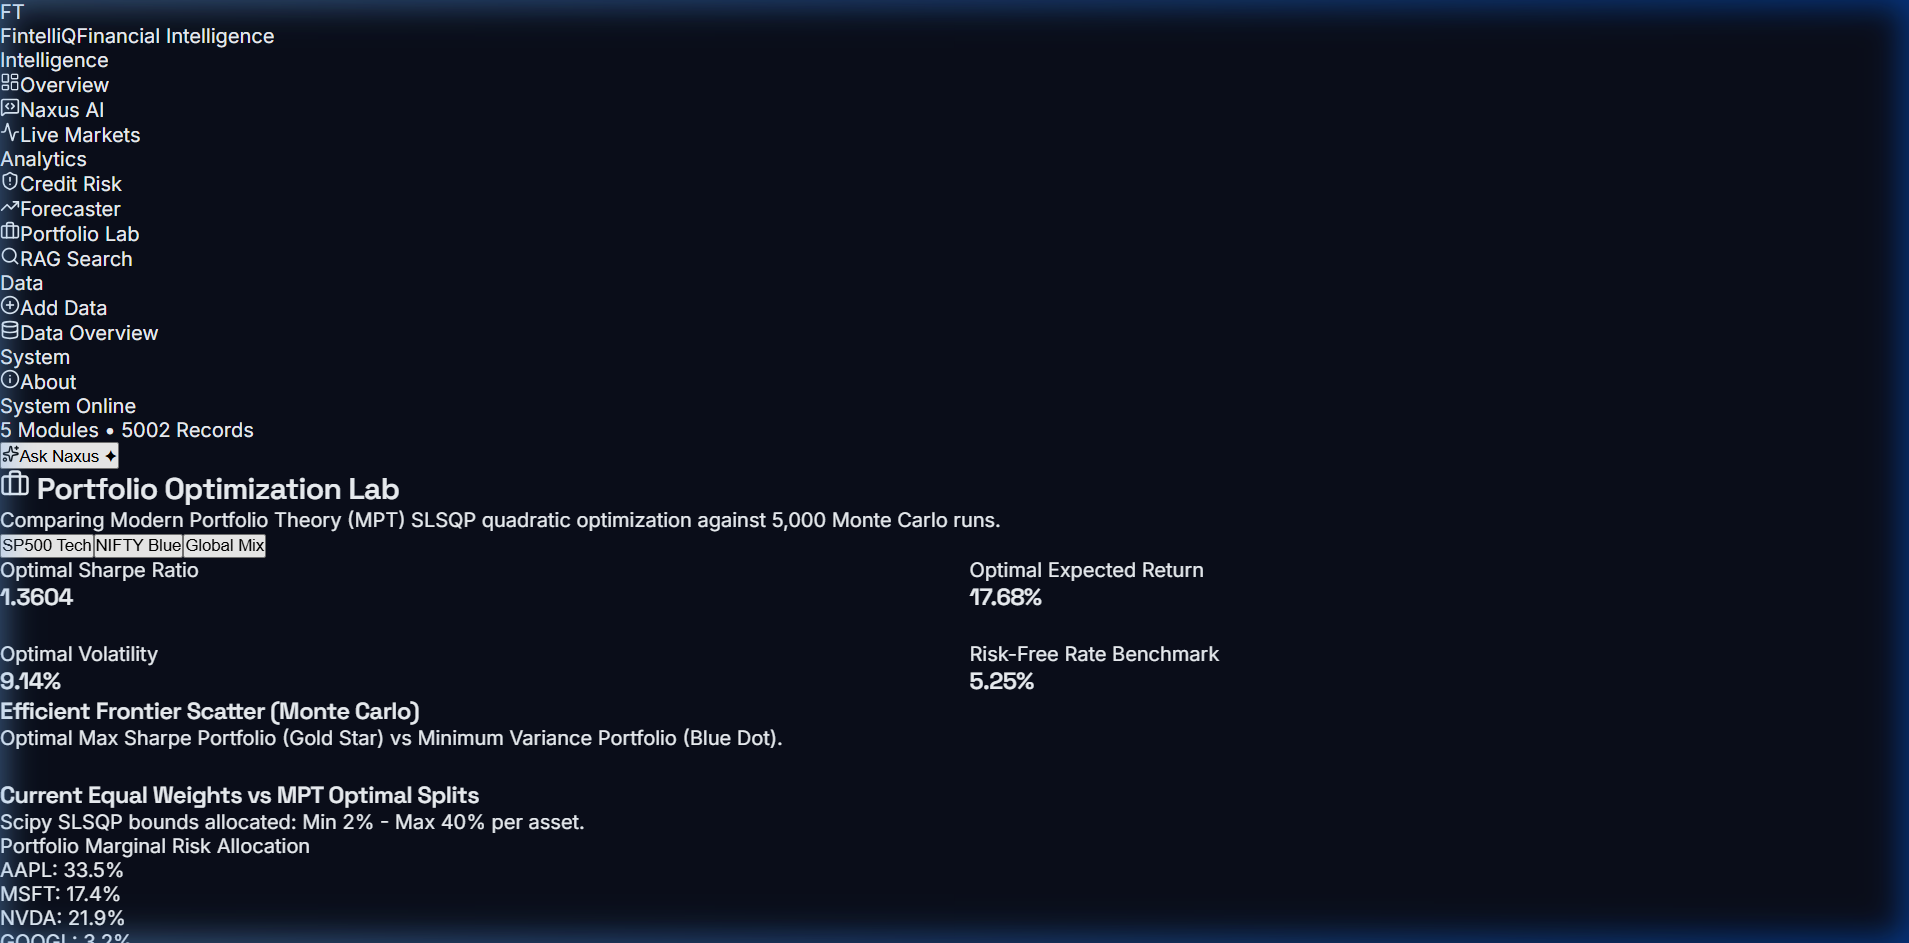
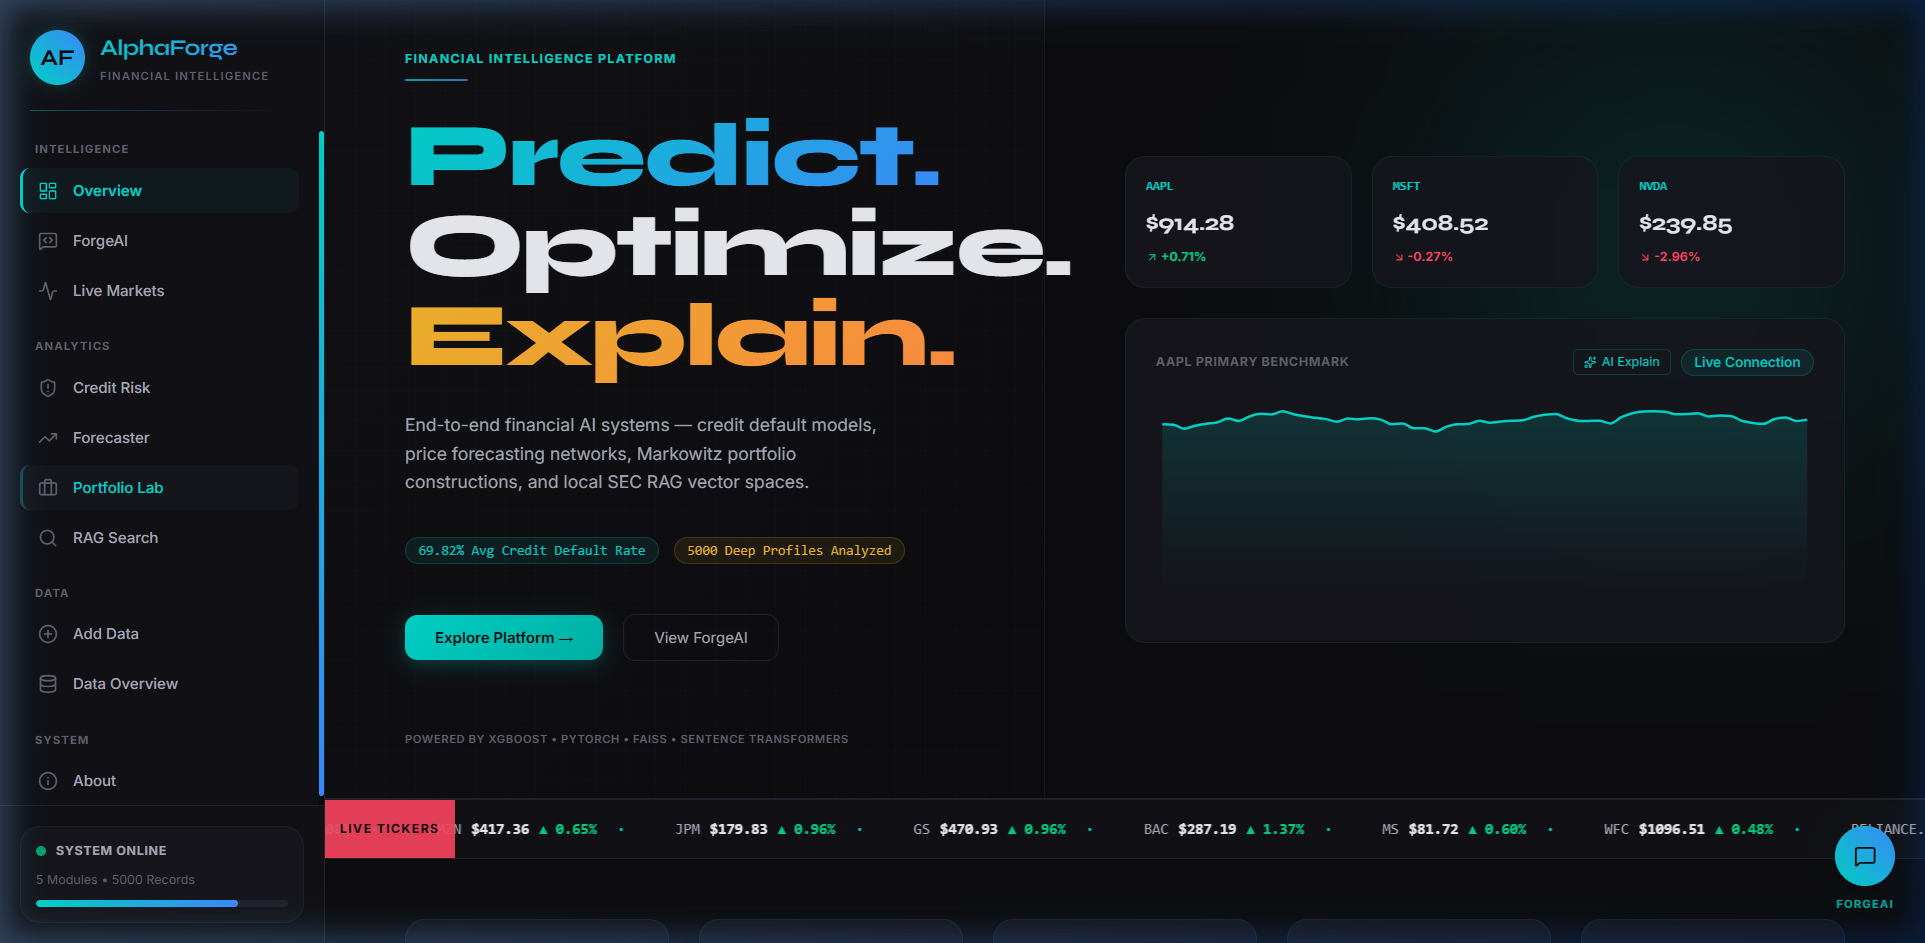
Docs: Update screenshots with styled Forecaster, Portfolio Lab, and AI Explain modal

diff --git a/README.md b/README.md
@@ -312,6 +312,10 @@ This visual output shows how features like FICO scores and debt-to-income ratios
 
 ![Credit Risk Scorer UI Layout](./screenshots/credit_risk_scorer.png)
 
+When a credit analyst clicks on the **AI Explain** button on any of these charts, AlphaForge displays a real-time glassmorphism card containing AI-generated explainability context for that particular graph or model output:
+
+![AI Explaining Modal in Action](./screenshots/credit_risk_ai_explaining.png)
+
 ### Paragraph 5: Time Series Forecasting: Why Self-Attention Wins
 Traditional sequence models like LSTMs process time series data sequentially, which can make them susceptible to vanishing gradients and memory loss over long lookback windows. In contrast, the self-attention mechanism in the Temporal Fusion Transformer computes attention weights across all time steps simultaneously. This allows the model to capture both short-term momentum and long-term macro patterns, improving forecasting accuracy over multi-day horizons.
 